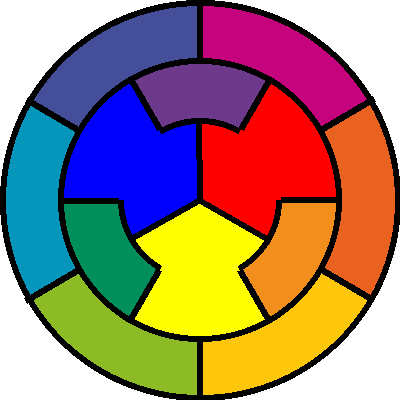
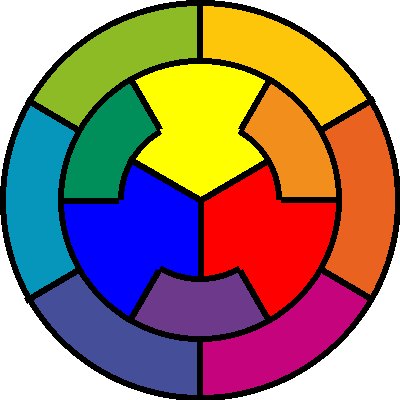
version aboutie v2

diff --git a/yannick.hiou.py b/yannick.hiou.py
@@ -69,8 +69,8 @@ def arc_cercle(draw, x_c, y_c, R, start_angle, end_angle):
     # Dessiner l'arc de cercle
     draw.arc(
         [x0, y0, x1, y1],
-        start=start_angle,
-        end=start_angle + extent,
+        start=-end_angle,
+        end=-start_angle,
         fill=(0, 0, 0),
         width=EPAISSEUR_DU_TRAIT,
     )
@@ -88,27 +88,27 @@ def cercle(draw, x_c, y_c, R):
 
 def courrone(draw, x0, y0, r, phase, couleurs):
     for i in range(6):
-        start_angle = phase + i * 60
+        start_angle = -(phase + i * 60)
         # Tracer le secteur
         draw.pieslice(
             [x0 - r, y0 - r, x0 + r, y0 + r],
-            start=start_angle,
-            end=start_angle + 60,
+            start=start_angle - 60,
+            end=start_angle,
             fill=couleurs[i]["code"],
-            outline=None,
+            outline=None
         )
 
 
 def centre(draw, x0, y0, Rp, phase, couleur):
     for i in range(3):
-        start_angle = phase + i * 120
+        start_angle = -(phase + i * 120)
         # Tracer le secteur
         draw.pieslice(
             [x0 - Rp, y0 - Rp, x0 + Rp, y0 + Rp],
-            start=start_angle,
-            end=start_angle + 120,
+            start=start_angle - 120,
+            end=start_angle,
             fill=couleur[i]["code"],
-            outline=None,
+            outline=None
         )
 
 
@@ -144,7 +144,7 @@ def crercle_chromatique_reorganise(
         tracer_droite_cercles(draw, x0, y0, 60 * i, Rs, Rp)
 
     for i in range(3):
-        dessiner_trait(draw, x0, y0, Rp, 30 + 120 * i)
+        dessiner_trait(draw, x0, y0, Rp, -30 + 120 * i)
     
     print(filename)
     img.save(filename)
